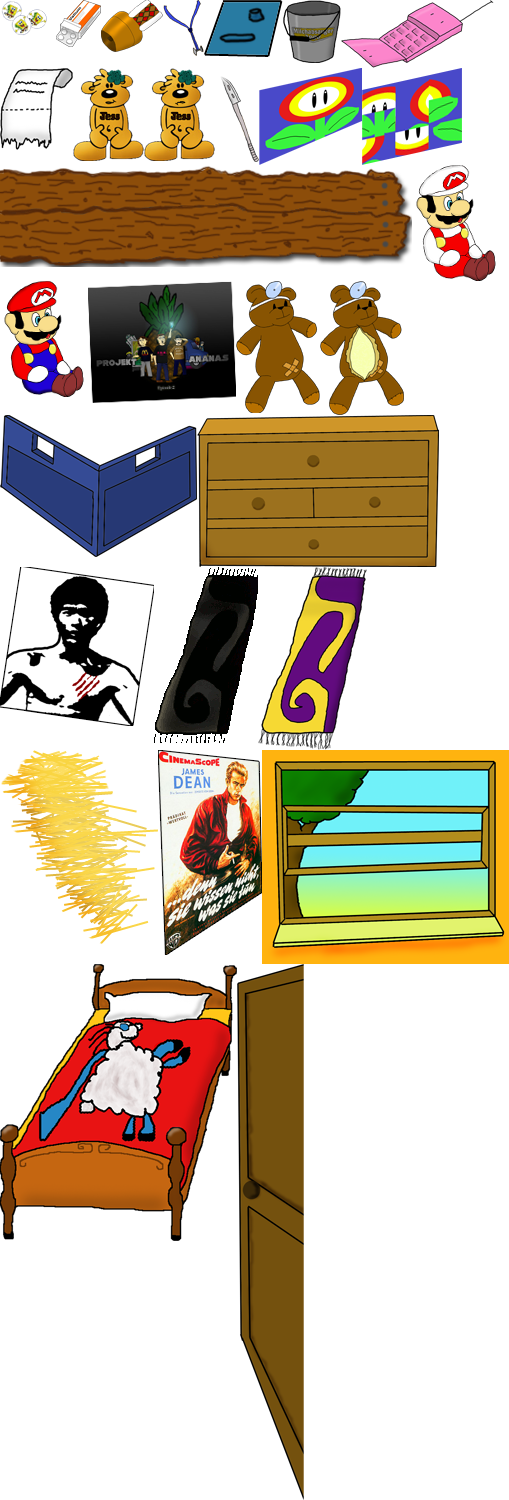
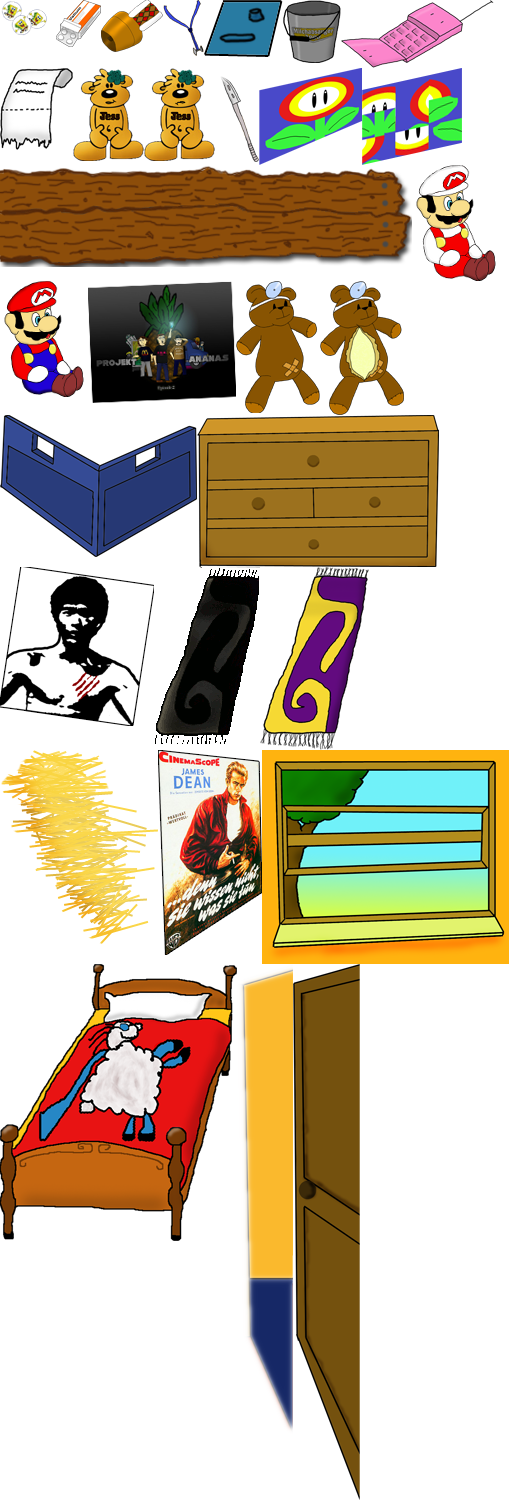
Jetzt mit begehbarem Ende

diff --git a/core/src/org/wanne/screens/RoomScreen.kt b/core/src/org/wanne/screens/RoomScreen.kt
@@ -26,6 +26,7 @@ import org.wanne.model.objects.DeanPoster
 import org.wanne.model.objects.Door
 import org.wanne.model.objects.DrBear
 import org.wanne.model.objects.Drawer
+import org.wanne.model.objects.Exit
 import org.wanne.model.objects.FireFlower
 import org.wanne.model.objects.Mario
 import org.wanne.model.objects.MilkSucker
@@ -89,6 +90,7 @@ class RoomScreen(
     private val teddy = Teddy(gameObjectToCheck = mario)
     private val flower = FireFlower(gameObjectToManipulate = mario, game = game)
     private val telephone = Telephone(winningRequiredGameObjectList = listOf(milkSucker, pills, bell), game = game)
+    private val exit = Exit()
 
     // Dialog System
     private val dialogBoard = DialogBoard(skin = game.skin)
@@ -144,6 +146,8 @@ class RoomScreen(
         stage.addActor(drawer)
         stickers.addListener(TextTooltip("Aufkleber", game.skin))
         stage.addActor(stickers)
+        exit.addListener(TextTooltip("Süße Freiheit!", game.skin))
+        stage.addActor(exit)
         straw.addListener(TextTooltip("Stroh", game.skin))
         stage.addActor(straw)
         door.addListener(TextTooltip("Tür", game.skin))
@@ -175,6 +179,9 @@ class RoomScreen(
         note.addListener(TextTooltip("Zettel mit Telefonnummer", game.skin))
         stage.addActor(note)
 
+        // Der Ausgang darf nur am Ende auf sein :)
+        exit.isVisible = false
+
         // Wenn wir aus der Kuh Szene zurückkommen, ist die Notiz im Inventar und muss sicher bleiben.
         if(!stage.currentAction.inventory.isObjectInInventory(note)) {
             note.isVisible = false
@@ -193,6 +200,7 @@ class RoomScreen(
 
         if (game.cowIsBusy) {
             door.isVisible = false
+            exit.isVisible = true
         }
     }
 

diff --git a/core/src/org/wanne/model/objects/Exit.kt b/core/src/org/wanne/model/objects/Exit.kt
@@ -1,0 +1,62 @@
+package org.wanne.model.objects
+
+import com.badlogic.gdx.graphics.g2d.Sprite
+import org.wanne.model.PointAndClickAction
+import org.wanne.model.Point
+import org.wanne.model.dialog.DialogBoard
+import org.wanne.model.player.Player
+import kotlin.system.exitProcess
+
+class Exit(
+    posX: Float = 968F,
+    posY: Float = 220F,
+) : GameObject(posX, posY) {
+    init {
+        x = posX
+        y = posY
+        height = getSprite().height
+        width = getSprite().width
+    }
+
+    override fun getSprite(): Sprite = addPositionToSprite(itemAtlas.createSprite("Ausgang"))
+
+    override fun getName(): String = "Exit"
+
+    override fun look(dialogBoard: DialogBoard) {
+        dialogBoard.prepLookAt("Da gehts nach draußen!")
+    }
+
+    override fun use(
+        dialogBoard: DialogBoard,
+        action: PointAndClickAction,
+    ) {
+        // ToDo: Abspann einblenden
+        exitProcess(0)
+    }
+
+    override fun take(
+        dialogBoard: DialogBoard,
+        action: PointAndClickAction,
+    ) {
+        exitProcess(0)
+    }
+
+    override fun combine(
+        dialogBoard: DialogBoard,
+        action: PointAndClickAction,
+    ) {
+        exitProcess(0)
+    }
+
+    override fun talk(
+        dialogBoard: DialogBoard,
+        action: PointAndClickAction,
+    ) {
+        dialogBoard.prepLookAt(
+            "Wollen wir uns wirklich mit dem Ausgang unterhalten?",
+            "Ich würde vorschlagen, wir gehn einfach.."
+        )
+    }
+
+    override fun getInteractPosition(): Pair<Point, Player.Companion.Looking> = Pair(Point(900, 216), Player.Companion.Looking.RIGHT)
+}

diff --git a/core/src/org/wanne/model/Inventory.kt b/core/src/org/wanne/model/Inventory.kt
@@ -24,7 +24,6 @@ class Inventory private constructor() {
         )
 
     fun addGameObjectToInventory(gameObject: GameObject) {
-        //gameObject.setScale(gameObject.getInventoryScale())
         gameObject.isInInventory = true
         items.add(gameObject)
         gameObject.setPositionToPoint(positions[items.indexOf(gameObject)])
